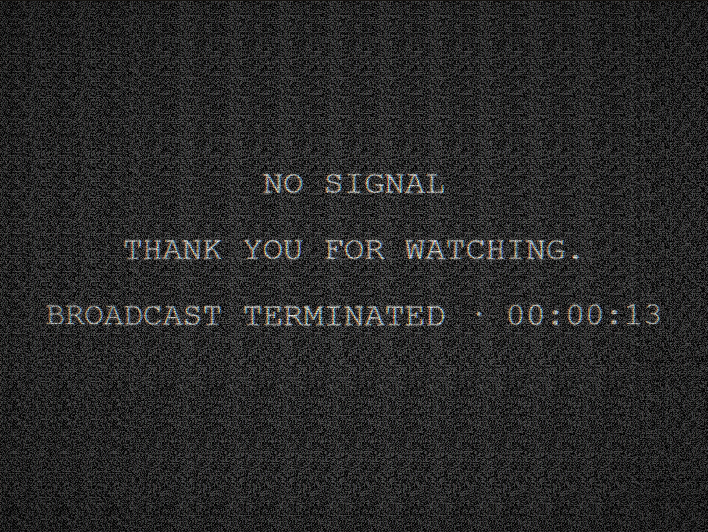
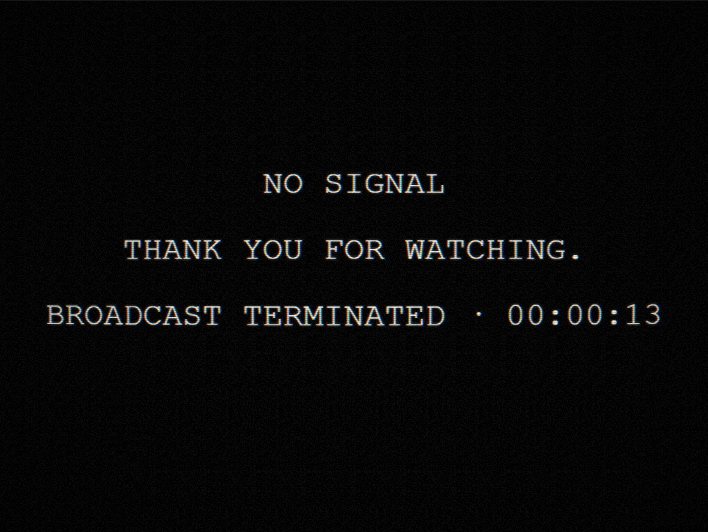
fix(app): MVP corrections for the room spec (sign-off, E02, demo divisor)
Sign-off text now sits on a near-clean picture for its full 8s: steadyDrive for
SIGN_OFF dropped from 0.4 to 0.04 static (<= 0.05, room req 9.1), so the phase
effect no longer buries the text under snow. E02 gets a 24 min cooldown (3 min
in demo) so it cannot repeat within a demo run's first few minutes (req 9.2).
DEMO_DIVISOR is now the single constant 8, used by both memory and the director
instead of a hard-coded 6 (req 9.3). Screenshots write only when
UPDATE_SCREENSHOTS=1, so a plain test run no longer modifies committed files
(req 9.5).

diff --git a/src/core/director.test.ts b/src/core/director.test.ts
@@ -1,7 +1,7 @@
 import { describe, expect, it } from 'vitest';
 import fc from 'fast-check';
 import { decideEvent, GLOBAL_GAP_MS, type DecideInput } from './director.ts';
-import { createMemory, memoryReducer, type ViewerMemory } from './memory.ts';
+import { createMemory, DEMO_DIVISOR, memoryReducer, type ViewerMemory } from './memory.ts';
 import type { HorrorEventInput } from '../content/schema.ts';
 import type { Item, Seam } from './types.ts';
 
@@ -121,6 +121,31 @@ describe('decideEvent: global 90s gap (requirement 9.7)', () => {
     expect(decideEvent(after)?.id).toBe('E');
   });
 
+  it('a cooldown blocks a repeat within the window, demo-scaled (room 9.2)', () => {
+    const now = 10_000_000;
+    const cooldownMs = 1_440_000; // E02's cooldown
+    const e = ev({ id: 'E02', cooldownMs, chain: true }); // chain so only the cooldown gates it
+    const firedRecently: ViewerMemory = {
+      ...createMemory(0),
+      firedEvents: { E02: { count: 1, lastAt: now - 120_000 } }, // 2 min ago
+    };
+    // Normal run: 2 min < 24 min cooldown → blocked.
+    expect(decideEvent(baseInput({ events: [e], memory: firedRecently, nowMs: now }))).toBeNull();
+    // Demo run: cooldown is 24min / 8 = 3 min, and only 2 min has passed → still
+    // blocked, so E02 can't repeat within the demo's first few minutes.
+    expect(
+      decideEvent(baseInput({ events: [e], memory: firedRecently, nowMs: now, demo: true })),
+    ).toBeNull();
+    // Well past the demo cooldown (4 min): allowed again in demo.
+    const longAgo: ViewerMemory = {
+      ...createMemory(0),
+      firedEvents: { E02: { count: 1, lastAt: now - 240_000 } },
+    };
+    expect(
+      decideEvent(baseInput({ events: [e], memory: longAgo, nowMs: now, demo: true }))?.id,
+    ).toBe('E02');
+  });
+
   it('a chain event bypasses the gap', () => {
     const chain = ev({ id: 'C', chain: true });
     const input = baseInput({ events: [chain], lastEventAt: 1_000_000 - 1, nowMs: 1_000_000 });
@@ -139,10 +164,15 @@ describe('decideEvent: global 90s gap (requirement 9.7)', () => {
     );
   });
 
-  it('demo shortens the gap by six', () => {
+  it('demo shortens the gap by DEMO_DIVISOR (room 9.3)', () => {
     const now = 2_000_000;
-    // 20s since last: blocked normally, allowed in demo (gap/6 = 15s).
-    const input = baseInput({ events: [ev()], lastEventAt: now - 20_000, nowMs: now });
+    // A gap between gap/DEMO_DIVISOR and the full gap: blocked normally, allowed
+    // in demo. With DEMO_DIVISOR = 8 the demo gap is 11.25s, so 30s is well
+    // inside the full 90s gap but well past the demo gap.
+    const sinceLast = Math.floor(GLOBAL_GAP_MS / 3); // 30s
+    expect(sinceLast).toBeGreaterThan(GLOBAL_GAP_MS / DEMO_DIVISOR);
+    expect(sinceLast).toBeLessThan(GLOBAL_GAP_MS);
+    const input = baseInput({ events: [ev()], lastEventAt: now - sinceLast, nowMs: now });
     expect(decideEvent(input)).toBeNull();
     expect(decideEvent({ ...input, demo: true })?.id).toBe('E');
   });

diff --git a/tests/e2e/events-visible.spec.ts b/tests/e2e/events-visible.spec.ts
@@ -95,6 +95,14 @@ async function lastEventText(page: Page): Promise<string> {
   return page.evaluate(() => (window as unknown as { __tv?: TvSeam }).__tv?.lastEventText() ?? '');
 }
 
+/** Read the live CRT static uniform (0..1) via the __crt test seam. */
+async function staticLevel(page: Page): Promise<number> {
+  return page.evaluate(() => {
+    const r = (window as unknown as { __crt?: { drive?: { static?: number } } }).__crt;
+    return r?.drive?.static ?? -1;
+  });
+}
+
 /**
  * Advance the fake clock in small steps, collecting every distinct value the
  * sign-off/slate text seam reported, until `pattern` is seen or `maxMs` of
@@ -219,6 +227,14 @@ test.describe('event output is visible on real WebGL', () => {
     expect(text).toContain('NO SIGNAL');
     expect(text).toContain('THANK YOU FOR WATCHING.');
     expect(text).toContain('BROADCAST TERMINATED · 00:00:13');
+
+    // The picture is near-clean for the FULL 8s window (room requirement 9.1:
+    // static 0.05 or less), so the text is legible the whole time — not buried
+    // under dead-air snow.
+    expect(await staticLevel(page)).toBeLessThanOrEqual(0.05);
+    await page.clock.runFor(6000); // still inside the 8s window
+    expect((await tv(page)).phase).toBe('SIGN_OFF');
+    expect(await staticLevel(page)).toBeLessThanOrEqual(0.05);
   });
 });
 

diff --git a/tests/e2e/screenshots.spec.ts b/tests/e2e/screenshots.spec.ts
@@ -13,6 +13,14 @@ import path from 'node:path';
 
 const SHOTS_DIR = path.resolve(fileURLToPath(new URL('../../docs/screenshots', import.meta.url)));
 
+/**
+ * Screenshots are written ONLY when UPDATE_SCREENSHOTS=1 (dead-air-room
+ * requirement 9.5: a plain test run must not modify committed files). Without
+ * it the tests still drive the flow and assert the text reached the picture;
+ * they just do not touch the PNGs on disk.
+ */
+const UPDATE_SCREENSHOTS = process.env.UPDATE_SCREENSHOTS === '1';
+
 interface SeedMemory {
   act?: number;
   totalWatchMs?: number;
@@ -73,7 +81,12 @@ async function shootWhen(page: Page, pattern: RegExp, file: string, maxMs = 1200
   // frame, and let the shader draw it (the fake clock drives rAF too).
   await page.clock.runFor(800);
   await page.waitForTimeout(200);
-  await page.getByTestId('tube-opening').screenshot({ path: path.join(SHOTS_DIR, file) });
+  // Assert the picture is showing the expected text, so the test proves the
+  // behaviour whether or not it writes a file.
+  if (!pattern.test(await text(page))) throw new Error(`expected picture to show ${pattern}`);
+  if (UPDATE_SCREENSHOTS) {
+    await page.getByTestId('tube-opening').screenshot({ path: path.join(SHOTS_DIR, file) });
+  }
 }
 
 test.describe('screenshots (committed evidence)', () => {

diff --git a/src/core/director.ts b/src/core/director.ts
@@ -13,7 +13,7 @@
 
 import type { HorrorEventInput } from '../content/schema.ts';
 import { evaluateCondition } from './conditions.ts';
-import { effectiveAct, type ViewerMemory } from './memory.ts';
+import { DEMO_DIVISOR, effectiveAct, type ViewerMemory } from './memory.ts';
 import type { ChannelId, Item, Seam } from './types.ts';
 
 /** The global minimum gap between events (requirement 9.7), `chain` exempt. */
@@ -75,7 +75,9 @@ function cooldownOk(ev: HorrorEventInput, mem: ViewerMemory, nowMs: number, divi
  */
 export function decideEvent(input: DecideInput): HorrorEventInput | null {
   const { memory, channel, seam, currentSource, nowMs, lastEventAt, sessionFired, events } = input;
-  const divisor = input.demo ? 6 : 1;
+  // Single demo divisor from core/memory (dead-air-room req 9.3): cooldowns and
+  // the global gap shrink by the same factor as the act time thresholds.
+  const divisor = input.demo ? DEMO_DIVISOR : 1;
   const act = effectiveAct(memory, input.demo ?? false);
 
   const gapElapsed = lastEventAt === null || nowMs - lastEventAt >= GLOBAL_GAP_MS / divisor;

diff --git a/src/core/memory.ts b/src/core/memory.ts
@@ -39,8 +39,12 @@ export const MEMORY_SCHEMA_VERSION = 1 as const;
 export const VISIT_ORDER_LIMIT = 50;
 /** A gap longer than this since last activity starts a new session (req 7.5). */
 export const NEW_SESSION_GAP_MS = 30 * 60 * 1000;
-/** `?demo=1` divides time thresholds and cooldowns by this (requirement 8.2). */
-export const DEMO_DIVISOR = 6;
+/**
+ * `?demo=1` divides time thresholds and cooldowns by this (requirement 8.2,
+ * dead-air-room requirement 9.3). This is the SINGLE source of the demo
+ * divisor: the director reads it too, so a demo run is consistent everywhere.
+ */
+export const DEMO_DIVISOR = 8;
 
 function emptyChannels(): Record<ChannelId, ChannelMemory> {
   const out = {} as Record<ChannelId, ChannelMemory>;

diff --git a/src/app/useTelevision.ts b/src/app/useTelevision.ts
@@ -140,7 +140,8 @@ export function useTelevision(): TelevisionApi {
   // Timer that fires ITEM_ENDED when the current item's remaining time elapses.
   const itemEndTimer = useRef<ReturnType<typeof setTimeout> | null>(null);
   // --- Viewer memory (task 12) -------------------------------------------
-  // `?demo=1` divides time thresholds by six (requirement 8.2).
+  // `?demo=1` divides time thresholds and cooldowns by DEMO_DIVISOR (8); see
+  // core/memory.ts (requirement 8.2 / dead-air-room 9.3).
   const demo = typeof window !== 'undefined' ? demoActive(window.location.search) : false;
   const storeRef = useRef<MemoryStore | null>(null);
   const getStore = useCallback((): MemoryStore => {

diff --git a/src/components/Screen/Screen.tsx b/src/components/Screen/Screen.tsx
@@ -49,8 +49,12 @@ export interface ScreenProps {
 function steadyDrive(phase: TvPhase): { power: number; static: number } {
   switch (phase) {
     case 'STAND_BY':
-    case 'SIGN_OFF':
       return { power: 1, static: 0.4 };
+    // The sign-off text must sit on a near-clean picture for its full 8s
+    // (dead-air-room requirement 9.1: static 0.05 or less). STAND_BY keeps its
+    // dead-air hiss; SIGN_OFF does not.
+    case 'SIGN_OFF':
+      return { power: 1, static: 0.04 };
     case 'ON_AIR':
     case 'EVENT':
       return { power: 1, static: 0.08 };

diff --git a/src/core/memory.test.ts b/src/core/memory.test.ts
@@ -137,7 +137,9 @@ describe('act computation (design §8)', () => {
     expect(naturalAct(m, false)).toBe(3);
   });
 
-  it('demo divides time thresholds by six (requirement 8.2)', () => {
+  it('demo divides time thresholds by DEMO_DIVISOR (requirement 8.2 / room 9.3)', () => {
+    // The single constant is 8 (dead-air-room requirement 9.3).
+    expect(DEMO_DIVISOR).toBe(8);
     const almost = withWatch((3 * MIN) / DEMO_DIVISOR);
     expect(naturalAct(almost, false)).toBe(0);
     expect(naturalAct(almost, true)).toBe(1);

diff --git a/docs/autopilot-log.md b/docs/autopilot-log.md
@@ -749,3 +749,41 @@ the real director/clock/presenter path, only the entry conditions are seeded.
 task 21); 60 fps budget and the manual cross-browser/soak checklist (task 22);
 firefox/webkit (Chromium only, as configured). Milestone 4 (file/YouTube
 adapters, tasks 17+) is intentionally not started.
+
+## dead-air-room Task 1 — MVP corrections (9.1–9.3, 9.5)
+
+Full gate green: `npm test` 267, `npm run lint` clean, `npm run build` 119.47 KB
+gzip (budget 300 KB), `npm run validate:catalog` OK (4 channels, 11 scenes, 12
+events), `npx playwright test --project=chromium` 28/28 with local retries 0.
+
+- **1.1 Sign-off near-clean for 8 s (req 9.1).** `steadyDrive('SIGN_OFF')` in
+  `src/components/Screen/Screen.tsx` returned `static: 0.4`, and that phase
+  effect ran after the orchestrator's `setStatic(0)`, so the sign-off text sat
+  behind heavy dead-air snow. Changed SIGN_OFF to `static: 0.04` (STAND_BY keeps
+  0.4). `events-visible.spec.ts` now reads the live `__crt.drive.static` on real
+  WebGL and asserts ≤ 0.05 at the start of the window and ~6 s in. Verified in a
+  real browser: `docs/screenshots/signoff-e10.png` is now crisp (file shrank
+  874 KB → 444 KB as the snow dropped).
+- **1.2 E02 cooldown (req 9.2).** Added `cooldownMs: 1440000` (24 min) to E02 in
+  `events.json`. In demo that is 24 min / 8 = 3 min, so E02 cannot repeat within
+  a demo run's first few minutes. New director unit test proves the cooldown
+  blocks a repeat and is demo-scaled.
+- **1.3 `DEMO_DIVISOR` = 8, single constant (req 9.3).** Set `DEMO_DIVISOR = 8`
+  in `core/memory.ts` and made `core/director.ts` import and use it instead of a
+  hard-coded `6` for cooldowns and the global gap. Updated the memory and
+  director tests (names, a value-lock `expect(DEMO_DIVISOR).toBe(8)`, and the
+  gap-shortening test now derives its window from the constant). Fixed the stale
+  "by six" comment in `useTelevision.ts`.
+- **1.4 Tests do not modify committed files (req 9.5).** `screenshots.spec.ts`
+  writes PNGs only when `UPDATE_SCREENSHOTS=1`; otherwise it still drives the
+  flow and asserts the text reached the picture, but touches no file. Confirmed:
+  after a full `npx playwright test` run, `git status` shows no change under
+  `docs/screenshots`.
+
+Decisions made alone: (1) E02 cooldown 24 min real = 3 min demo — long enough to
+cover "the first few minutes" of a demo run per req 9.2, short enough that a
+second fire is still possible much later; reversible by editing the JSON.
+(2) SIGN_OFF static 0.04 (not 0) so a faint analog grain remains while staying
+≤ 0.05; reversible. Unverified: nothing new for Task 1 — the divisor-8 change was
+exercised end to end by the milestone-3 checkpoint reaching sign-off (now ~2.8
+min of mocked surfing).

diff --git a/.kiro/specs/dead-air-room/tasks.md b/.kiro/specs/dead-air-room/tasks.md
@@ -6,11 +6,11 @@ Tick a task only when the behaviour has been seen in a real browser, not because
 
 ## Phase A: Corrections
 
-- [ ] 1. MVP corrections
-  - [ ] 1.1 Sign-off static at 0.05 or less, for the full 8 seconds.
-  - [ ] 1.2 E02 cooldown, so it can't repeat within minutes.
-  - [ ] 1.3 `DEMO_DIVISOR` = 8. Remove the hard-coded 6 in `core/director.ts`, and update tests and comments.
-  - [ ] 1.4 Stop test runs modifying committed files. Write screenshots only when `UPDATE_SCREENSHOTS=1`.
+- [x] 1. MVP corrections
+  - [x] 1.1 Sign-off static at 0.05 or less, for the full 8 seconds.
+  - [x] 1.2 E02 cooldown, so it can't repeat within minutes.
+  - [x] 1.3 `DEMO_DIVISOR` = 8. Remove the hard-coded 6 in `core/director.ts`, and update tests and comments.
+  - [x] 1.4 Stop test runs modifying committed files. Write screenshots only when `UPDATE_SCREENSHOTS=1`.
   - _Requirements: 9.1–9.3, 9.5_
 
 ## Phase B: Tear the wall
